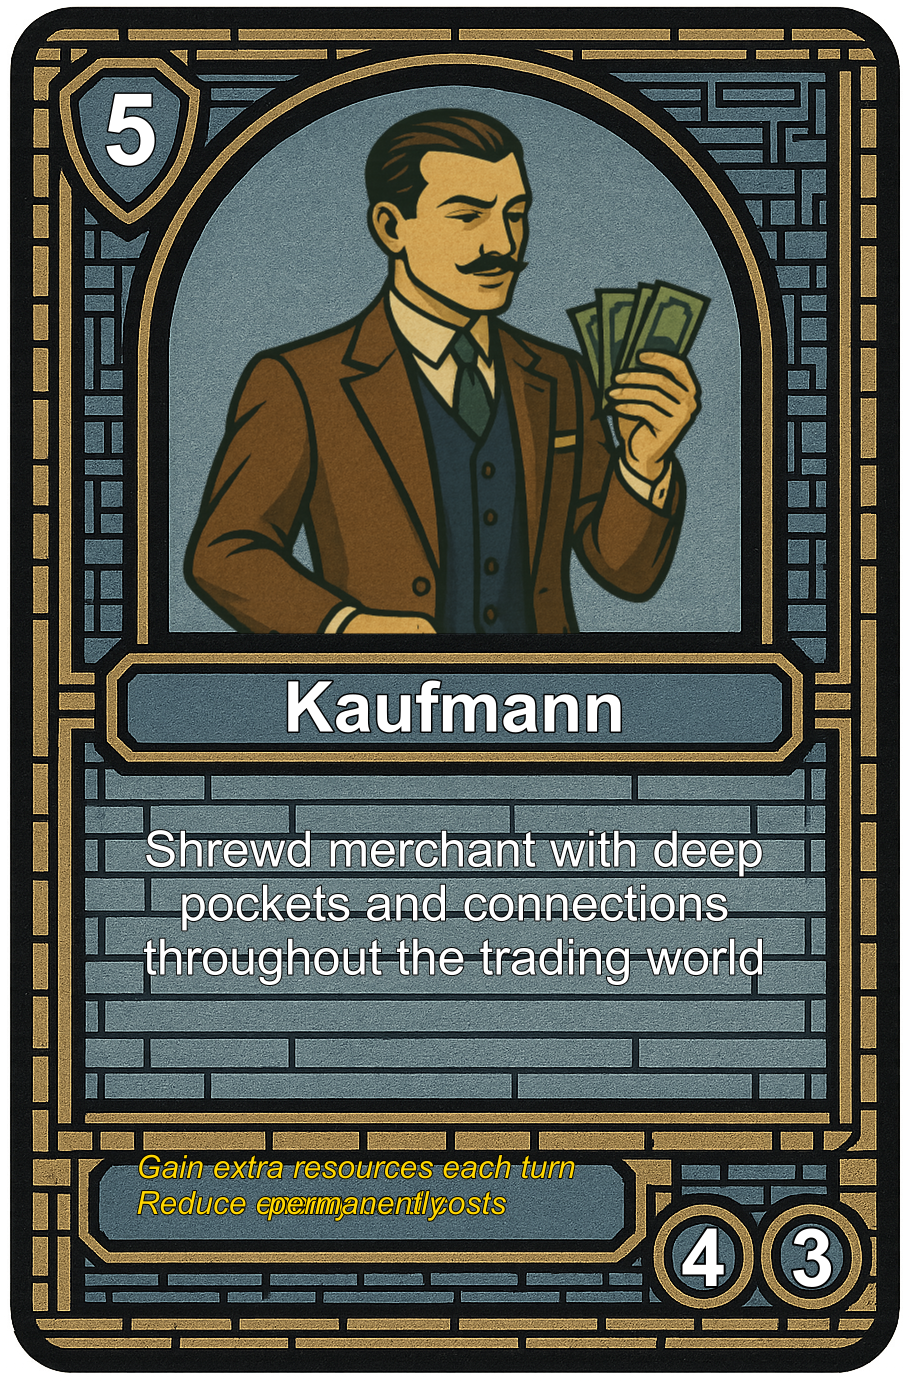
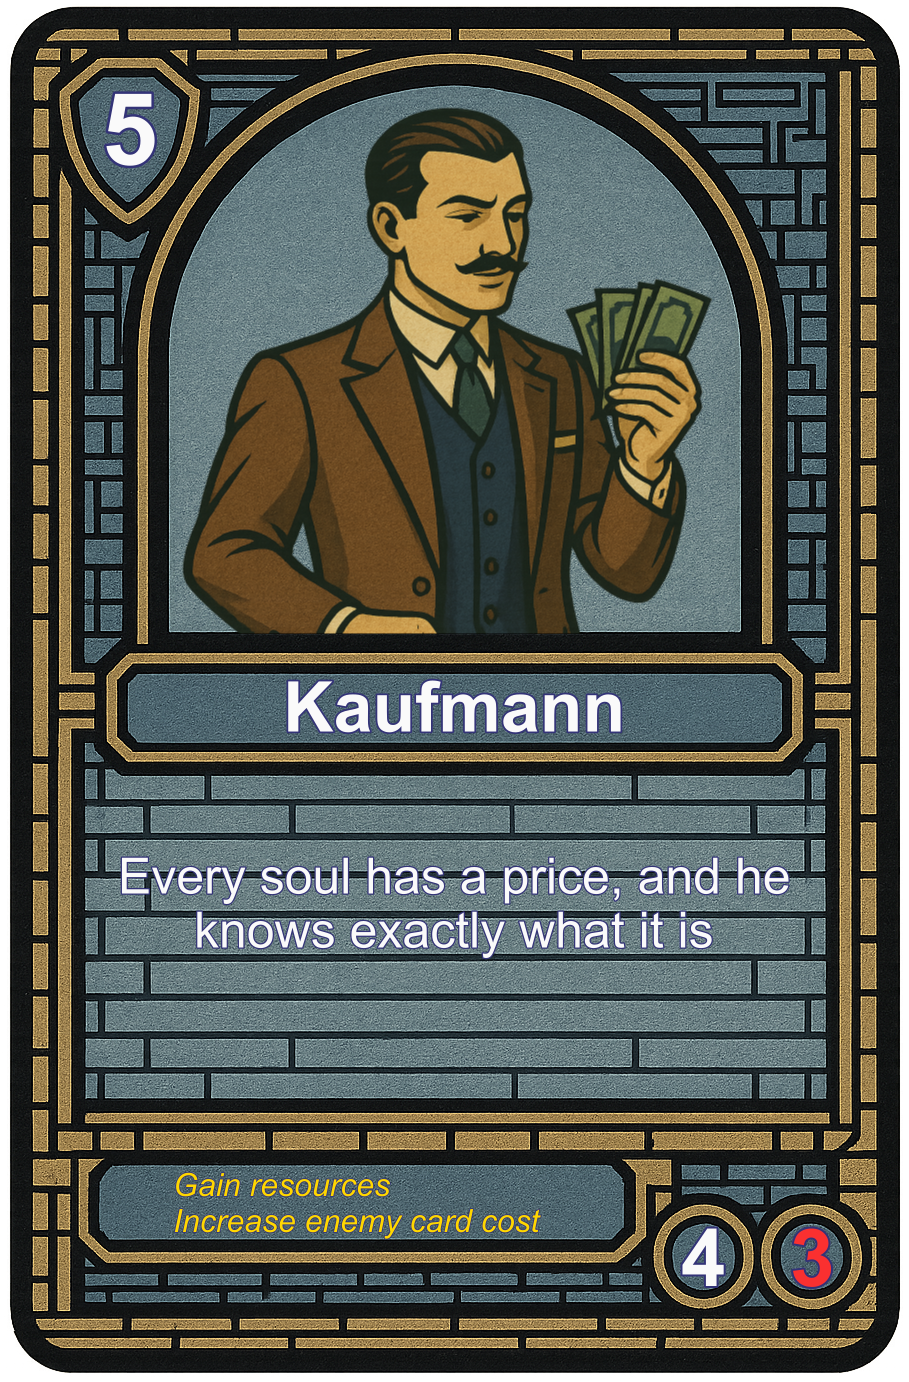
feat: berlin1920 done for now

diff --git a/15-cardcreator/src/index.ts b/15-cardcreator/src/index.ts
@@ -34,13 +34,28 @@ class CardGenerator {
         y: number,
         fontSize: number,
         weight: string = 'normal',
-        fillColor: string = '#FFFFFF',
-        strokeColor: string = '#000000',
-        strokeWidth: number = 2,
+        fillColor?: string,
+        strokeColor?: string,
+        strokeWidth?: number,
         textAlign: CanvasTextAlign = 'center',
         textBaseline: CanvasTextBaseline = 'middle'
     ): void {
         ctx.save();
+
+        // Use base config values if not provided
+        const actualFillColor = fillColor || this.baseConfig?.fontColor || '#FFFFFF';
+        const actualStrokeColor = strokeColor || this.baseConfig?.fontStrokeColor || '#000000';
+
+        // Calculate proportional stroke width based on font size
+        let actualStrokeWidth: number;
+        if (strokeWidth !== undefined) {
+            actualStrokeWidth = strokeWidth;
+        } else if (this.baseConfig?.fontStrokeWidthForSize100) {
+            // Scale stroke width proportionally: (fontSize / 100) * baseStrokeWidth
+            actualStrokeWidth = (fontSize / 100) * this.baseConfig.fontStrokeWidthForSize100;
+        } else {
+            actualStrokeWidth = 2; // fallback
+        }
 
         // Set text alignment to center the text at the given coordinates
         ctx.textAlign = textAlign;
@@ -48,9 +63,9 @@ class CardGenerator {
         ctx.font = `${weight} ${fontSize}px Arial`;
 
         // Draw stroke first (outline)
-        if (strokeWidth > 0) {
-            ctx.strokeStyle = strokeColor;
-            ctx.lineWidth = strokeWidth;
+        if (actualStrokeWidth > 0) {
+            ctx.strokeStyle = actualStrokeColor;
+            ctx.lineWidth = actualStrokeWidth;
             ctx.lineJoin = 'round';
             ctx.lineCap = 'round';
             ctx.miterLimit = 2;
@@ -58,7 +73,7 @@ class CardGenerator {
         }
 
         // Draw fill on top
-        ctx.fillStyle = fillColor;
+        ctx.fillStyle = actualFillColor;
         ctx.fillText(text, x, y);
 
         ctx.restore();
@@ -97,9 +112,9 @@ class CardGenerator {
         fontSize: number,
         lineHeight: number,
         weight: string = 'normal',
-        fillColor: string = '#FFFFFF',
-        strokeColor: string = '#000000',
-        strokeWidth: number = 2,
+        fillColor?: string,
+        strokeColor?: string,
+        strokeWidth?: number,
         textAlign: CanvasTextAlign = 'center'
     ): void {
         const lines = this.wrapText(ctx, text, maxWidth, fontSize);
@@ -218,9 +233,7 @@ class CardGenerator {
                 levelText.y,
                 levelText.fontSize,
                 'bold',
-                '#FFFFFF',
-                '#000000',
-                3
+                levelText.fontColor
             );
 
             // Draw attack
@@ -231,9 +244,7 @@ class CardGenerator {
                 attackText.y,
                 attackText.fontSize,
                 'bold',
-                '#FFFFFF',
-                '#000000',
-                4
+                attackText.fontColor
             );
 
             // Draw health
@@ -244,9 +255,7 @@ class CardGenerator {
                 healthText.y,
                 healthText.fontSize,
                 'bold',
-                '#FFFFFF',
-                '#000000',
-                4
+                healthText.fontColor
             );
 
             // Draw title (might need wrapping)
@@ -260,9 +269,7 @@ class CardGenerator {
                     titleText.fontSize,
                     titleText.fontSize + 5,
                     'bold',
-                    '#FFFFFF',
-                    '#000000',
-                    3
+                    titleText.fontColor
                 );
             } else {
                 this.drawScaledText(
@@ -272,9 +279,7 @@ class CardGenerator {
                     titleText.y,
                     titleText.fontSize,
                     'bold',
-                    '#FFFFFF',
-                    '#000000',
-                    3
+                    titleText.fontColor
                 );
             }
 
@@ -289,9 +294,7 @@ class CardGenerator {
                     descriptionText.fontSize,
                     descriptionText.fontSize + 4,
                     'normal',
-                    '#FFFFFF',
-                    '#000000',
-                    2
+                    descriptionText.fontColor
                 );
             }
 
@@ -307,9 +310,7 @@ class CardGenerator {
                     specialEffects.fontSize,
                     specialEffects.fontSize + 4,
                     'italic',
-                    '#FFD700',
-                    '#000000',
-                    2
+                    specialEffects.fontColor
                 );
             }
 

diff --git a/15-cardcreator/src/types.ts b/15-cardcreator/src/types.ts
@@ -16,6 +16,7 @@ export interface TextConfig {
     fontSize: number;
     width?: number;
     height?: number;
+    fontColor?: string;
 }
 
 export interface ImageConfig {
@@ -32,6 +33,9 @@ export interface HeroImageConfig {
 }
 
 export interface BaseConfig {
+    fontColor: string;
+    fontStrokeColor: string;
+    fontStrokeWidthForSize100: number;
     backImage: ImageConfig;
     heroImage: HeroImageConfig;
     levelText: TextConfig;
@@ -39,7 +43,7 @@ export interface BaseConfig {
     attackText: TextConfig;
     descriptionText: TextConfig;
     titleText: TextConfig;
-    specialEffects: TextConfig;
+    specialEffects: TextConfig & { fontColor?: string };
 }
 
 export interface CardsFile {
